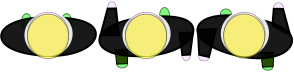
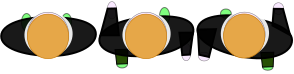
tweak first-npc

Changed region(s): [[0.7347, 0.1622, 0.9184, 0.8108], [0.398, 0.1892, 0.5816, 0.8108], [0.0918, 0.1892, 0.2449, 0.8108]]

diff --git a/projects/example/SpriteTest.jsx b/projects/example/SpriteTest.jsx
@@ -37,7 +37,7 @@ const rootCss = css`
     position: absolute;
     transform: scale(0.18);
     pointer-events: all;
-    filter: contrast(200%);
+    filter: grayscale(100%);
   }
   
   &.walk .body {
